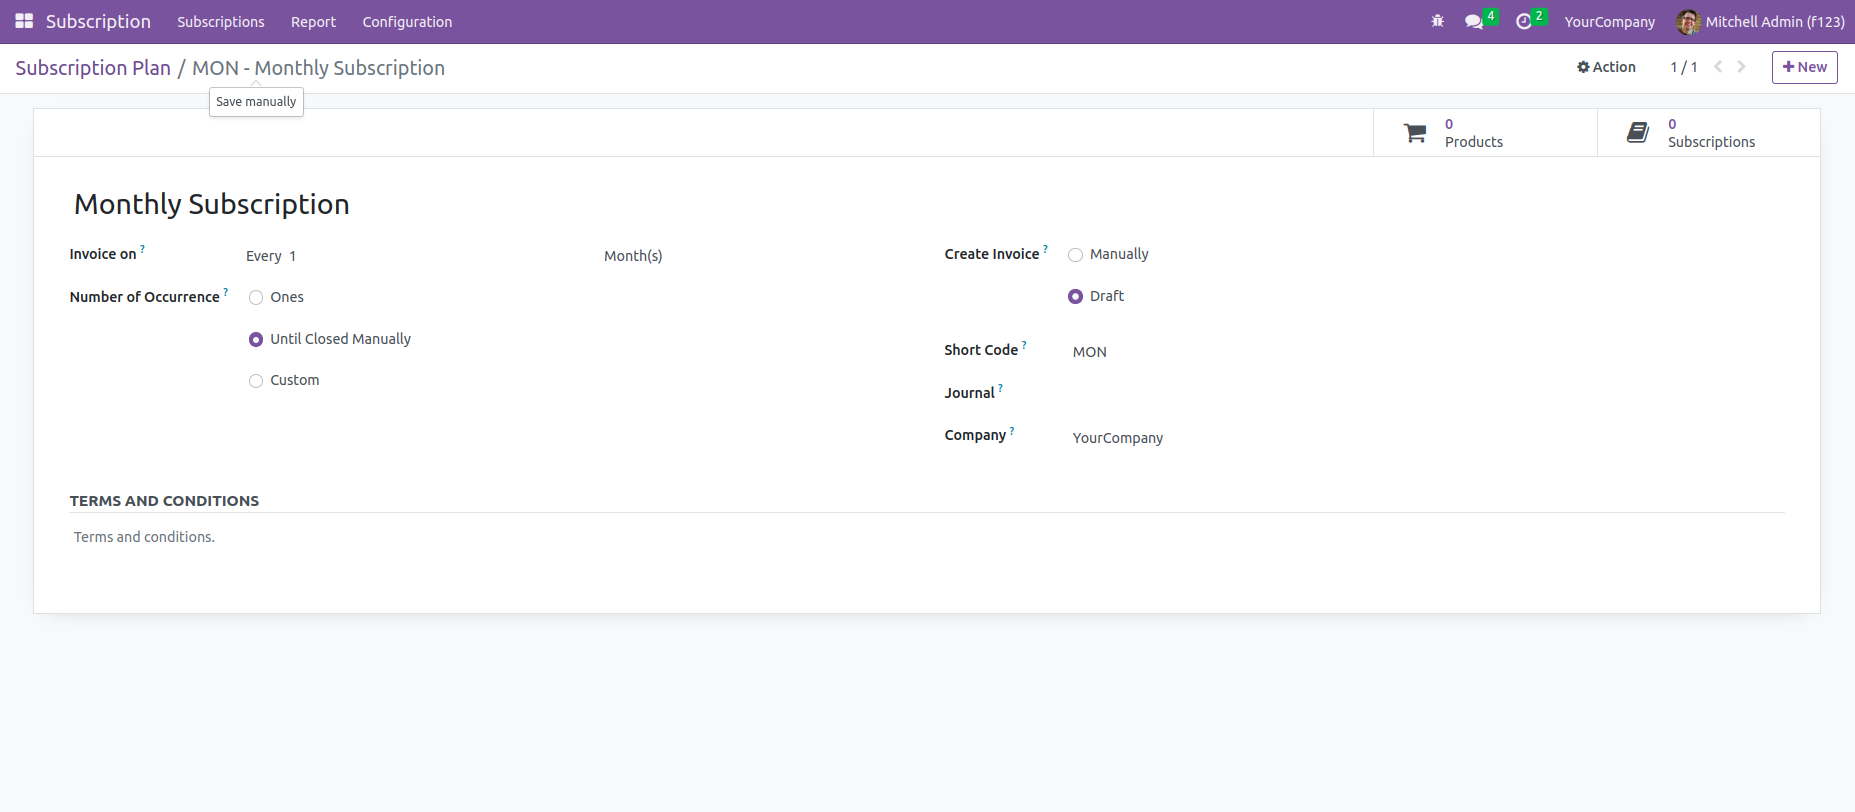
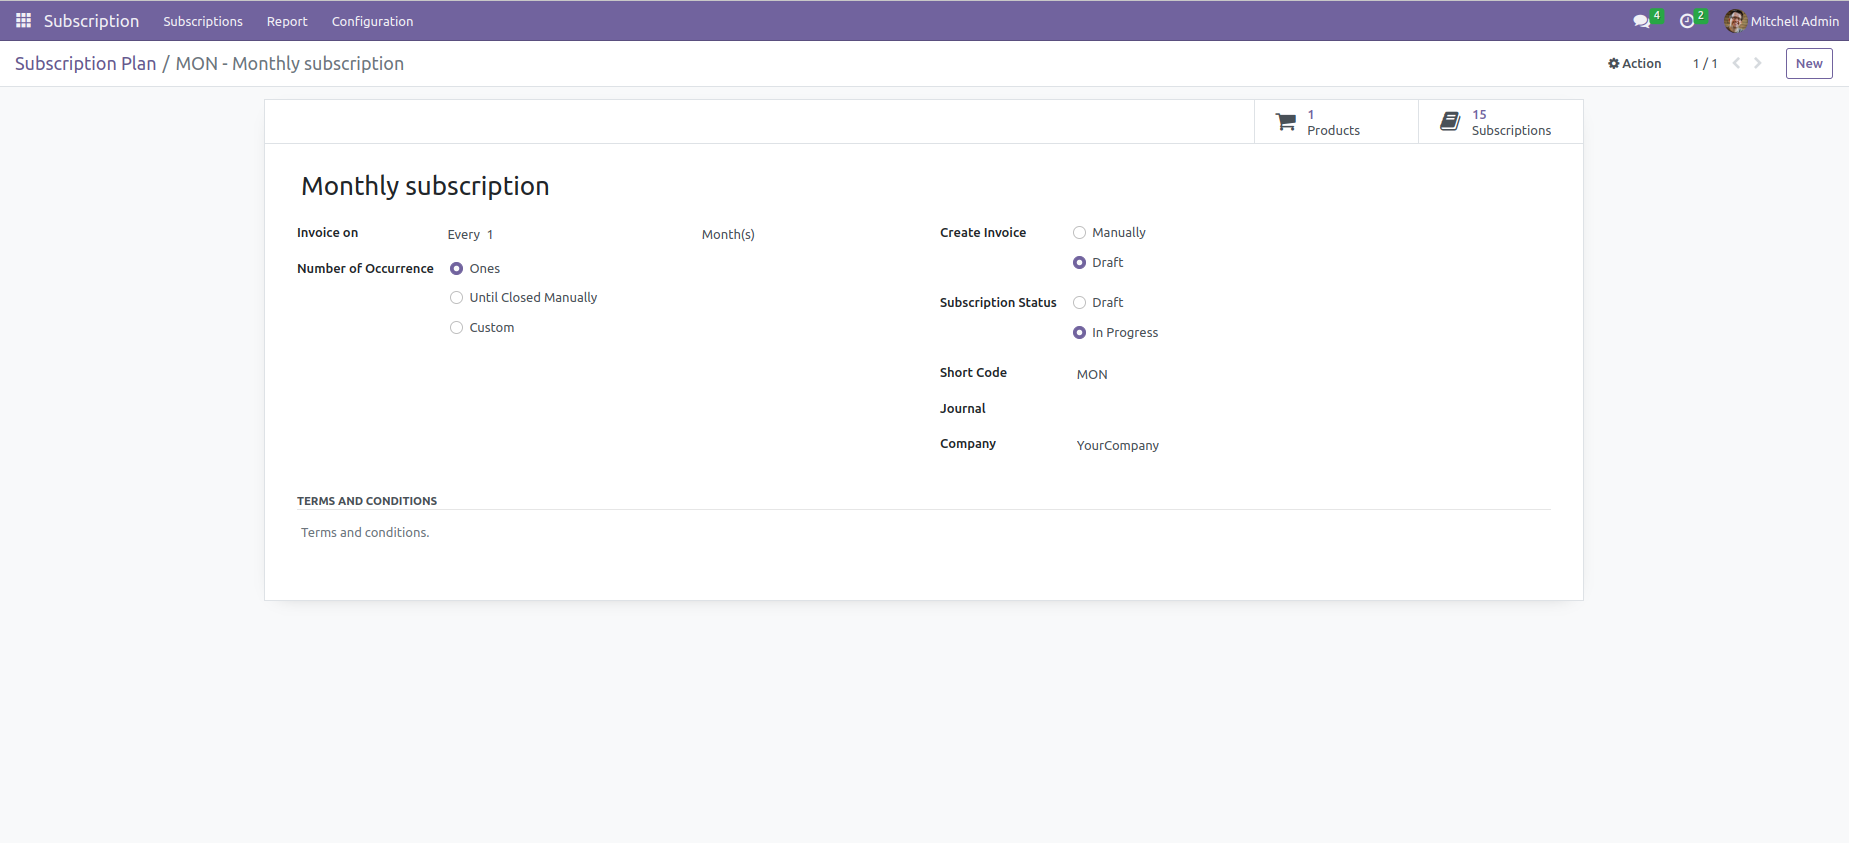
Sep 25: [FIX] Bug Fixed 'subscription_package'

diff --git a/subscription_package/static/description/index.html b/subscription_package/static/description/index.html
@@ -9,11 +9,11 @@
                     class="mr-2">
                 <i class="fa fa-check mr-1"></i>Community
             </div>
-<!--            <div-->
-<!--                    style="color: #7C7BAD; font-size: 14px; font-family: 'Montserrat', sans-serif; font-weight: bold; background-color: white; display: inline-block; padding: 3px 10px; border-radius: 50px;"-->
-<!--                    class="mr-2">-->
-<!--                <i class="fa fa-check mr-1"></i>Enterprise-->
-<!--            </div>-->
+            <!--            <div-->
+            <!--                    style="color: #7C7BAD; font-size: 14px; font-family: 'Montserrat', sans-serif; font-weight: bold; background-color: white; display: inline-block; padding: 3px 10px; border-radius: 50px;"-->
+            <!--                    class="mr-2">-->
+            <!--                <i class="fa fa-check mr-1"></i>Enterprise-->
+            <!--            </div>-->
         </div>
     </div>
     <!-- END OF TITLE BAR -->
@@ -203,6 +203,11 @@
                 <li>In Subscription Plan we have a Radio Button named 'Create Invoice',</li>
                 - If we choose 'Manually', then invoice creation is manually.<br/>
                 - If we choose 'Draft', then invoice creation is automatically.<br/>
+                <li>In Subscription Plan we have a Radio Button named 'Subscription Status',<br/>
+                    - If we choose 'Draft',When creating a subscription from a sales order, then the subscription state
+                    will be the draft state.<br/>
+                    - If we choose 'In Progress',When creating a subscription from a sales order, then the subscription
+                    state will be the In Progress state.<br/>
             </ul>
             </p>
             <img src="assets/screenshots/SUB1.png" class="img-thumbnail">
@@ -265,18 +270,18 @@
             <img src="assets/screenshots/SUB7.png" class="img-thumbnail">
         </div>
     </div>
-<!--    <div style="display: block; margin: 30px auto;">-->
-<!--        <h3 style="font-family: 'Montserrat', sans-serif; font-size: 18px; font-weight: bold;"> Recurrence Period-->
-<!--        </h3>-->
+    <!--    <div style="display: block; margin: 30px auto;">-->
+    <!--        <h3 style="font-family: 'Montserrat', sans-serif; font-size: 18px; font-weight: bold;"> Recurrence Period-->
+    <!--        </h3>-->
 
-<!--        <img src="assets/screenshots/SUB8.png" class="img-thumbnail">-->
-<!--    </div>-->
-<!--    <div style="display: block; margin: 30px auto;">-->
-<!--        <h3 style="font-family: 'Montserrat', sans-serif; font-size: 18px; font-weight: bold;">Create Recurrence Period-->
-<!--        </h3>-->
+    <!--        <img src="assets/screenshots/SUB8.png" class="img-thumbnail">-->
+    <!--    </div>-->
+    <!--    <div style="display: block; margin: 30px auto;">-->
+    <!--        <h3 style="font-family: 'Montserrat', sans-serif; font-size: 18px; font-weight: bold;">Create Recurrence Period-->
+    <!--        </h3>-->
 
-<!--        <img src="assets/screenshots/SUB9.png" class="img-thumbnail">-->
-<!--    </div>-->
+    <!--        <img src="assets/screenshots/SUB9.png" class="img-thumbnail">-->
+    <!--    </div>-->
     <div style="display: block; margin: 30px auto;">
         <h3 style="font-family: 'Montserrat', sans-serif; font-size: 18px; font-weight: bold;"> Subscription Report
         </h3>
@@ -293,7 +298,8 @@
             Subscriptions to Renew
         </h3>
 
-        <img src="assets/screenshots/SUB11.png" class="img-thumbnail"><hr>
+        <img src="assets/screenshots/SUB11.png" class="img-thumbnail">
+        <hr>
         <img src="assets/screenshots/SUB12.png" class="img-thumbnail">
 
     </div>

diff --git a/subscription_package/models/sale_order.py b/subscription_package/models/sale_order.py
@@ -63,16 +63,28 @@ class SaleOrder(models.Model):
                                            'product_qty': line.product_uom_qty,
                                            'unit_price': line.price_unit}]
                         this_products_line.append(rec_list)
-                        self.env['subscription.package'].create(
-                            {
-                                'sale_order': self.id,
-                                'reference_code': self.env['ir.sequence'].next_by_code('sequence.reference.code'),
-                                'start_date': fields.Date.today(),
-                                'stage_id': self.env.ref('subscription_package.draft_stage').id,
-                                'partner_id': self.partner_id.id,
-                                'plan_id': line.product_id.subscription_plan_id.id,
-                                'product_line_ids': this_products_line
-                            })
+                        if line.product_id.subscription_plan_id.subscription_state == 'draft':
+                            self.env['subscription.package'].create(
+                                {
+                                    'sale_order': self.id,
+                                    'reference_code': self.env['ir.sequence'].next_by_code('sequence.reference.code'),
+                                    'start_date': fields.Date.today(),
+                                    'stage_id': self.env.ref('subscription_package.draft_stage').id,
+                                    'partner_id': self.partner_id.id,
+                                    'plan_id': line.product_id.subscription_plan_id.id,
+                                    'product_line_ids': this_products_line
+                                })
+                        else:
+                            self.env['subscription.package'].create(
+                                {
+                                    'sale_order': self.id,
+                                    'reference_code': self.env['ir.sequence'].next_by_code('sequence.reference.code'),
+                                    'start_date': fields.Date.today(),
+                                    'stage_id': self.env.ref('subscription_package.progress_stage').id,
+                                    'partner_id': self.partner_id.id,
+                                    'plan_id': line.product_id.subscription_plan_id.id,
+                                    'product_line_ids': this_products_line
+                                })
         return super()._action_confirm()
 
 

diff --git a/subscription_package/models/subscription_plan.py b/subscription_package/models/subscription_plan.py
@@ -59,6 +59,9 @@ class SubscriptionPlan(models.Model):
                                    compute='_compute_product_count')
     subscription_count = fields.Integer(string='Subscriptions',
                                         compute='_compute_subscription_count')
+    subscription_state = fields.Selection([('draft', 'Draft'),
+                                     ('in_progress', 'In Progress')],
+                                    default='in_progress')
 
     @api.depends('product_count')
     def _compute_product_count(self):

diff --git a/subscription_package/__manifest__.py b/subscription_package/__manifest__.py
@@ -22,7 +22,7 @@
 
 {
     'name': 'Subscription Management For Community Odoo 16',
-    'version': '16.0.1.1.1',
+    'version': '16.0.2.1.1',
     'summary': 'Subscription Package Management Module For Odoo16 Community',
     'description': 'Subscription Package Management Module For Odoo16 Community',
     'category': 'Sales',
